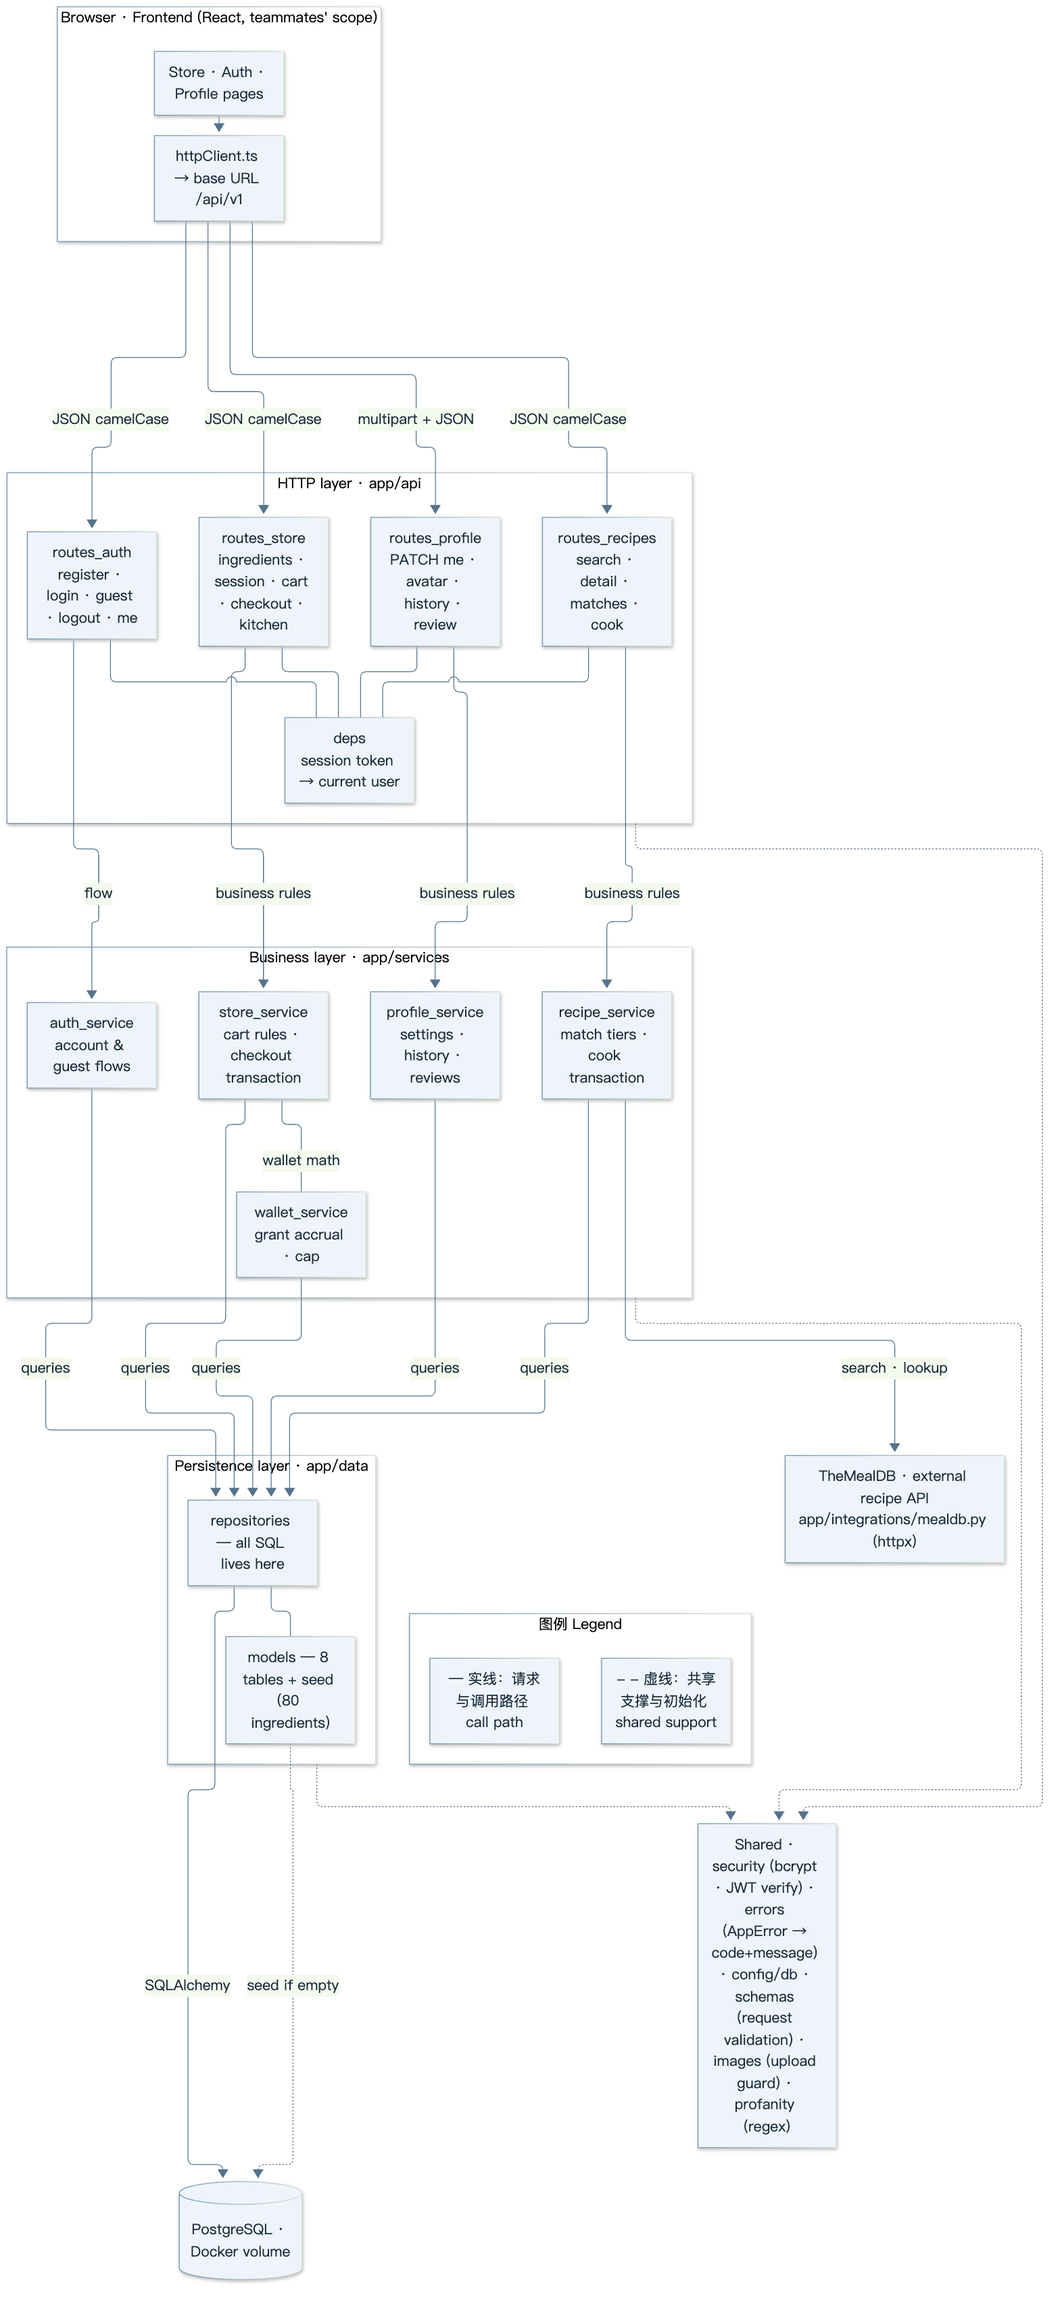
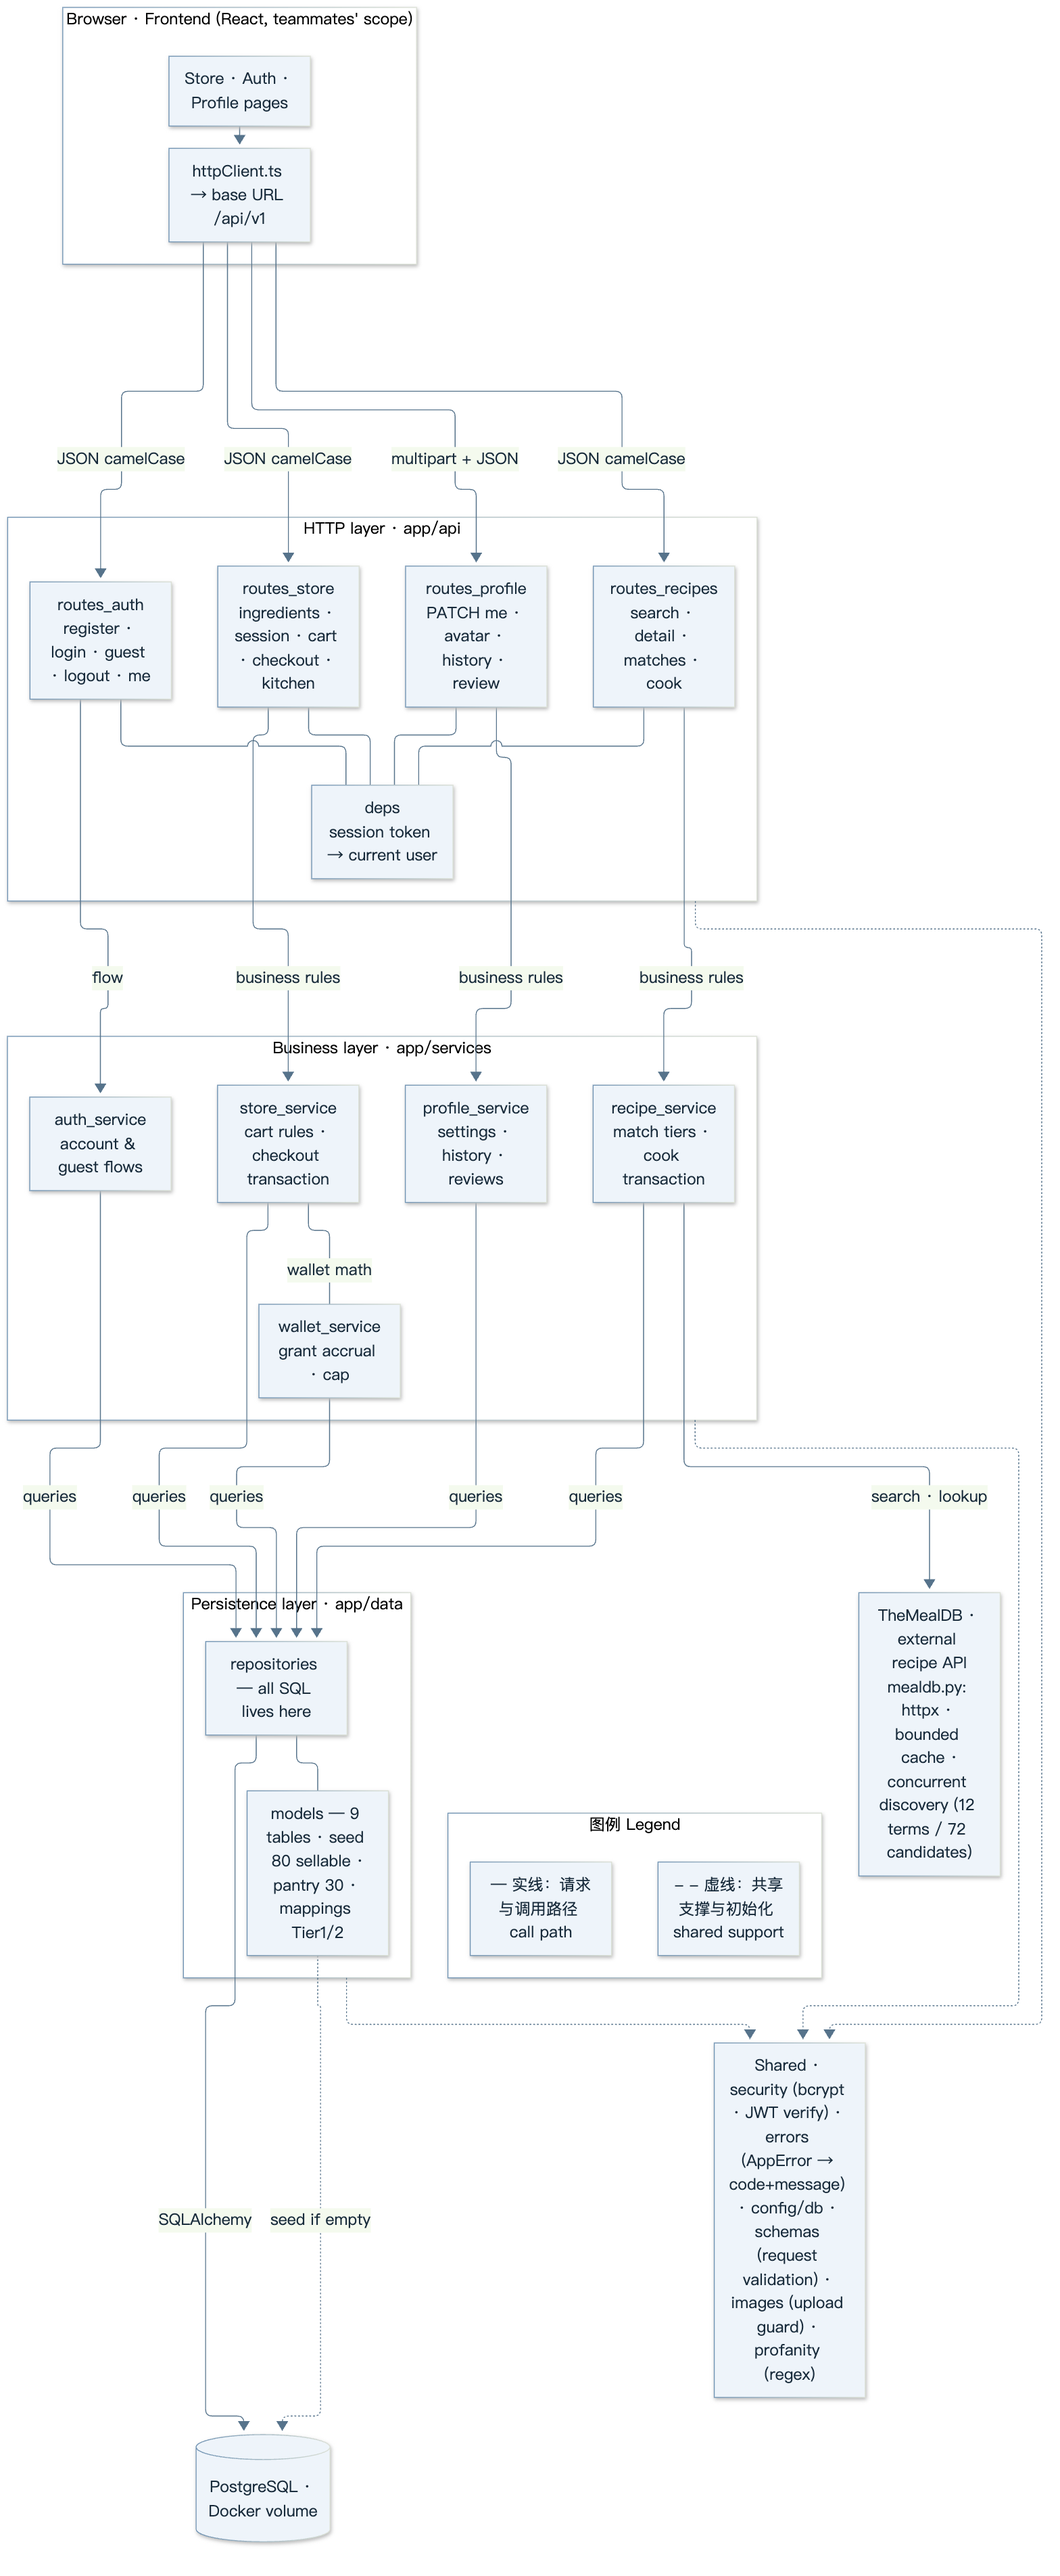
docs: sync architecture doc and diagrams with the kitchen discovery changes
- ARCHITECTURE.md: nine tables (cook_requests), updated pytest description
- diagrams: persistence layer shows seed 80 / pantry 30 / Tier 1-2 mappings,
  mealdb client notes bounded cache and concurrent discovery; cook flow gains
  the kitchen discovery phase and the idempotent completion key
- README: drop links to the two not-yet-committed coverage reports
- remove committed .DS_Store and ignore it

diff --git a/backend/docs/ARCHITECTURE.md b/backend/docs/ARCHITECTURE.md
@@ -84,7 +84,7 @@ documented in `backend/README.md`.
 
 ### 2.3 Database schema
 
-Eight tables; every user-owned row is scoped by `user_id` / session ownership so
+Nine tables; every user-owned row is scoped by `user_id` / session ownership so
 isolation is enforced in each query:
 
 | Table | Purpose |
@@ -97,6 +97,7 @@ isolation is enforced in each query:
 | `wallets` | One wallet per user: balance + accrual anchor |
 | `cook_history` | One row per cooked meal; review text + optional photo bytes |
 | `avatars` | At most one PNG/JPEG/WebP per user |
+| `cook_requests` | Persisted completion keys so cook retries cannot consume inventory twice |
 
 ### 2.4 Business rules in force
 
@@ -133,9 +134,10 @@ npx newman run postman/cart-to-kitchen.postman_collection.json \
   -e postman/local.postman_environment.json
 ```
 
-**pytest — pure-function tests only** (wallet grant math, match tier
-boundaries, the review profanity regex): edge cases that cannot be reached
-through live HTTP because the clock or inventory state is not controllable.
+**pytest — unit and isolated HTTP contract tests** (wallet grant math, match
+tiers, review filtering, recipe discovery/normalization, cooking inventory,
+user isolation, idempotent completion). HTTP tests run on SQLite with
+deterministic MealDB fixtures; the live TheMealDB run is opt-in.
 
 ```bash
 pip install -e ".[dev]" && pytest
@@ -155,7 +157,7 @@ concerns do not mix. The rules that keep it that way:
   wallet grant math, checkout transaction. Knows nothing about HTTP (raises
   `AppError` subclasses, never returns status codes).
 - **`app/data/` (persistence layer)** — repositories contain every SQL query;
-  models define the eight tables; `seed.py` is generated from the frontend
+  models define the nine tables; `seed.py` is generated from the frontend
   `dummyData.ts` (regenerate, don't hand-edit, so the two never drift).
 - **`app/integrations/`** — the TheMealDB client (`httpx`), no caching or
   retries: failures map to 502.

diff --git a/backend/README.md b/backend/README.md
@@ -65,8 +65,8 @@ python -m scripts.mealdb_coverage
 ```
 
 This cross-checks first-letter searches with all public category lists and uses
-an isolated in-memory catalogue. See [the coverage snapshot](../MEALDB_COVERAGE.md)
-for the measured count, assumptions and fully supported dishes.
+an isolated in-memory catalogue; it prints the measured count, assumptions and
+fully supported dishes.
 
 To measure the production Tier 1/Tier 2 whitelist and the audit-only Tier 3
 game adaptations:
@@ -76,8 +76,8 @@ python -m scripts.relaxed_coverage --summary
 ```
 
 Tier 1 and Tier 2 are used by recipe detail, discovery, matching and cooking.
-Tier 3 remains audit-only. The assumptions and their limits are documented in
-[the relaxed coverage report](../MEALDB_RELAXED_COVERAGE.md).
+Tier 3 remains audit-only; the assumptions and their limits are printed by the
+script itself.
 
 ## Architecture
 
